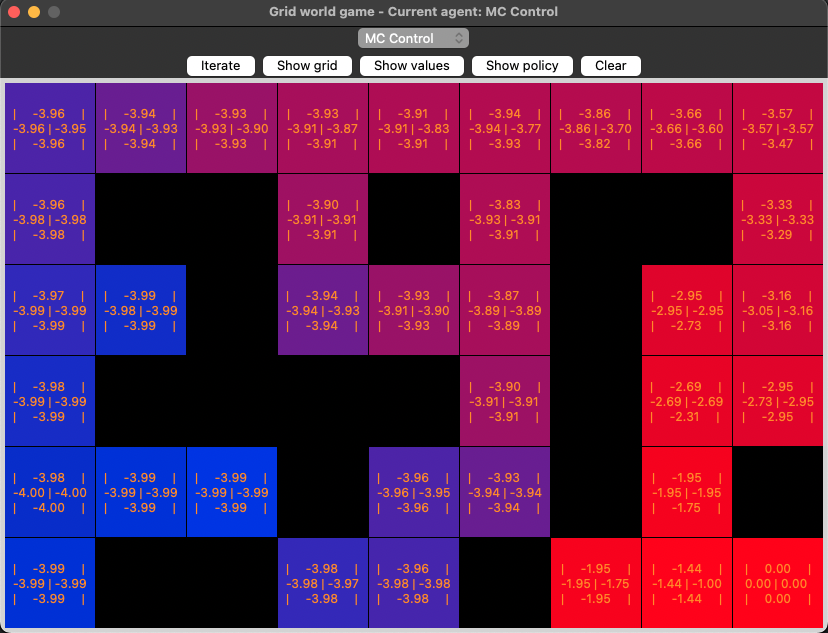
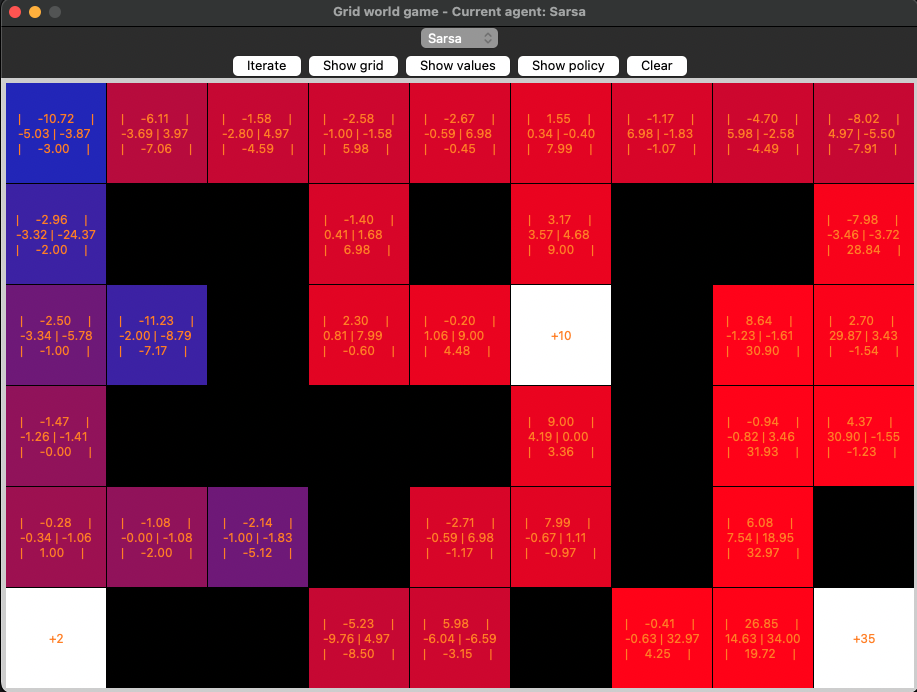
Updated README.md and example-images

diff --git a/README.md b/README.md
@@ -1,14 +1,9 @@
-# RL-Gridworld: A RL-Learning Environment
+# RL-Gridworld: A Reinforcement Learning - "Learning" Environment
 
 Welcome to the __RL-Gridworld__, an open-source resource designed for learning and experimenting with various paradigms in reinforcement learning (RL). 
-This library provides a versatile gridworld environment that can be easily extended and customized, making it an ideal tool for both beginners and experienced practitioners.
+This library provides a versatile gridworld environment that can be easily extended and customized, demonstrating how RL-Algorithms achieve their solutions.
 
-This project is an example for using three methods for solving the Bellman equations (Prediction & Control):
-* Dynamic Programming
-* Monte Carlo Method
-* Temporal Difference Learning
-
-All prediction and control approaches can be implemented in the respective file and can be selected in the GUI of the GridWorld example.
+All control approaches can be implemented in the respective file and can be selected in the GUI of the GridWorld example.
 
 ![Agent Starting State](example-images/Agent_Starting_State.png)
 
@@ -18,35 +13,55 @@ All prediction and control approaches can be implemented in the respective file 
 * __Extensible Gridworld Environment__: At the core of this library is the gridworld environment, a simple yet powerful tool for demonstrating key concepts in RL. 
 Users can easily modify and extend this environment to suit their learning and research needs.
 
-* __Support for Multiple RL Paradigms__: The library is built to demonstrate a variety of reinforcement learning techniques, including:
-  * Dynamic Programming
-  * On-Policy Monte-Carlo Prediction
-  * On-Policy Monte-Carlo Control (w and w/o exploring starts)
-  * TD Prediction TD(0)
-  * On-Policy TD Control Sarsa
+* __Support for Multiple RL Paradigms__: The library is built to demonstrate a variety of reinforcement learning techniques (see Sutton & Barto, Reinforcement Learning: An Introduction, 2018), including:
+  * Dynamic Programming:
+    * Policy Iteration 
+    * Value Iteration
+  * Monte Carlo Methods:
+    * On-Policy Monte-Carlo Control
+    * On-Policy Monte-Carlo Control with Exploring Starts
+    * Off-Policy Monte-Carlo Control
+  * Temporal Difference Learning:
+    * Sarsa
+    * Expected Sarsa
+    * Q-Learning
+  * N-Step bootstrapping:
+    * N-Step Sarsa
+    * N-Step 
+    * N-Step Tree Backup
+    * Off-Policy N-Step Sarsa
+    * Off-Policy N-Step Q(sigma)
 
 ## Environment dynamics
 
-The environment acts the following way:
+The environment acts the following way, but can be configured freely as described below:
 * Every move results in a reward of `-1`
 * Moving into the wall will also yield a reward of `-1`, however the agent's position doesn't change
 * Moving out of the grid will also yield a reward of `-1`, however the agent's position doesn't change
-* When being in the goal, no more action is possible (terminal state)
+* When being in a terminal state, no more action is possible
 
 ## Configuration
 
-The grid world layout can be adjusted in the `__main__.py` file.
+The gridworld layout can be adjusted in the `src/env/gridworld-config.yml` file.
 It can be configured the following way:
-* _g_ indicates the goal
-* _a_ indicates the agent's starting position
-* _1_ indicates a wall
-* _0_ indicates an accessible state
-* Multiple goals are possible!
-* The dimensions of the grid are adjustable! One can try out multiple sizes and test each algorithm with it!
+### Gridworld configuration
+* **Horizon**: The maximum number of steps the agent can take in the environment (defines truncation)
+* **Action_space**: The possible actions the agent can take (cardinal_moves: [North, South, East, West], queen_moves: [N, S, E, W, NE, NW, SE, SW])
+* **Layout**:
+  * **s** : indicates the agent's starting position
+  * **w** : indicates a wall
+  * **.** : indicates an accessible state
+  * **t** : indicates a terminal state
+* **Rewards**:
+  * **#** : indicates a reward issued when entering that state (where # is any int or float, else the default reward is 0)
+* **Reward_per_step**: The reward issued for every step the agent takes
+* Multiple terminal states are possible.
+* Rewards and terminal states are decoupled.
+* The dimensions of the grid are adjustable. One can try out multiple sizes and test each algorithm with it.
 
 ## Solutions for algorithms
-The solution for the algorithms is in the directory `agents/solutions`. These are currently used in the main.py in order to see that the example is working.
-When assigning the task to the students, the solutions directory should be removed and the regular algorithms (`dp_control.py`, `mc_prediction.py`, `mc_control.py`, `td_prediction.py`, `td_control.py`) referenced in the `__main__.py`.
+The solutions for the algorithms are in the directory `agents/solutions/...`. These are currently used in the `__main__.py` in order to see that the example is working.
+When assigning the task to the students, the solutions directory should be removed and the `agents/templates/...` versions should be referenced in the `__main__.py`.
 
 # Installing and running the program
 All required packages are in resources/requirements.txt.
@@ -64,17 +79,18 @@ Here are some examples of the project with implemented algorithms:
 ### Empty Gridworld with Agent starting position
 ![Agent Starting State](example-images/Agent_Starting_State.png)
 
-### Initialized Policy
-![Initialized Policy](example-images/Initialized_Policy.png)
-
 ### Initialised Action Values
 ![Initialized Action Values](example-images/Initialized_Action_Values.png)
 
+## Example images using Sarsa
 ### Converged Action Values
 ![Converged Action Values](example-images/Converged_Action_Values.png)
 
-### Optimal Policy using Dynamic Programming
-![Optimal Policy: DP](example-images/Optimal_Policy_DP.png)
+### Optimal Policy
+![Optimal Policy](example-images/Optimal_Policy.png)
+
+### Episode Returns
+![Episode Returns](example-images/Episode_Returns_Sarsa.png)
 
 ## References
 The rl_board.py is based on the source code ot the python package `game2dboard` which uses the provided [game2dboard-MIT-Licence](https://github.com/kitaird/rl-gridworld/blob/develop/resources/game2dboard-LICENSE.txt) under `resources/game2dboard-LICENSE.txt`.
